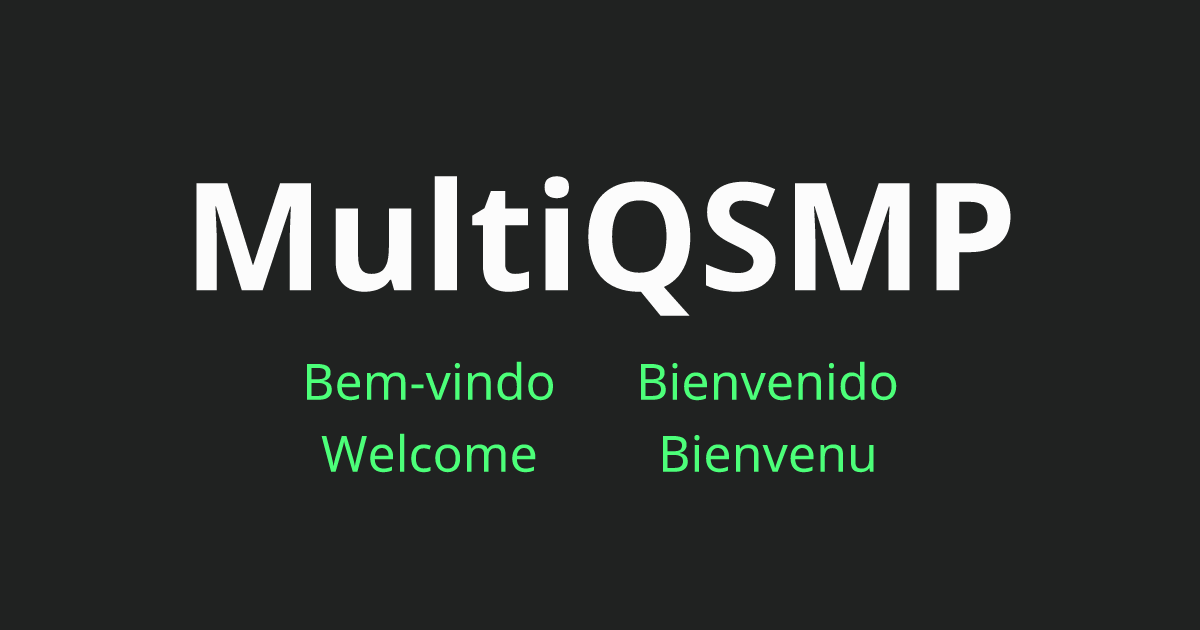
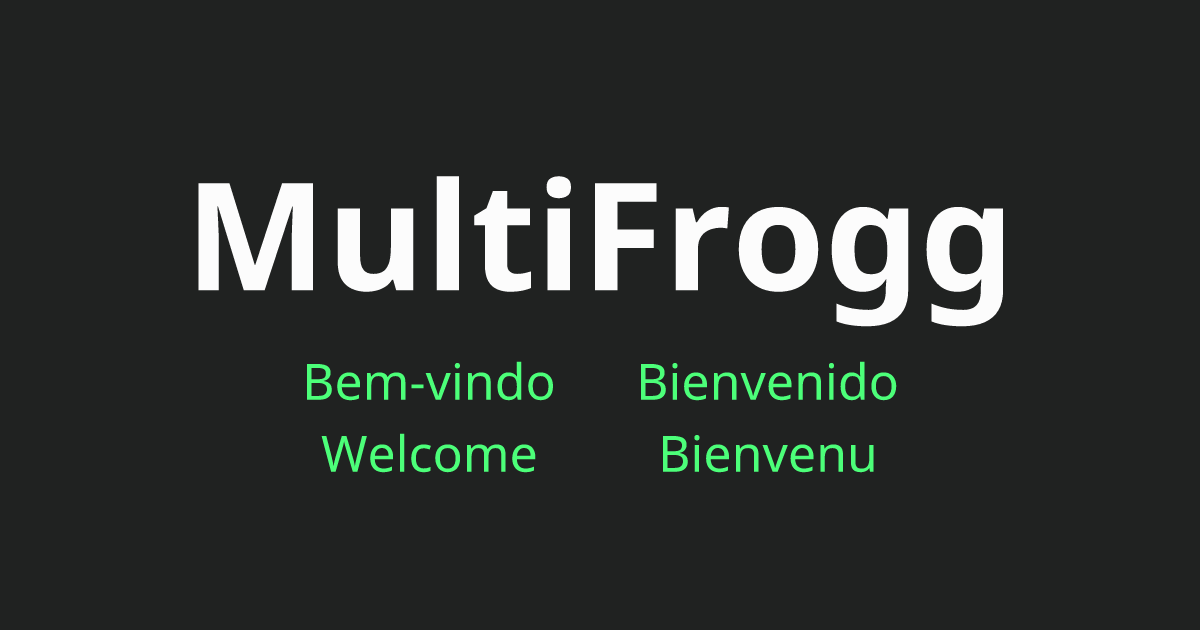
.

diff --git a/src/data/streamers/frogg.ts b/src/data/streamers/frogg.ts
@@ -56,7 +56,8 @@ export const FROGG_STREAMERS: StreamerSchema[] = [
     twitch_name: "ameliebluie",
     default_streamer: true,
     no_data: true,
-    avatar_url: "https://static-cdn.jtvnw.net/jtv_user_pictures/c6b18c74-54c8-42bc-85e0-ca199397acaf-profile_image-300x300.png",
+    avatar_url:
+      "https://static-cdn.jtvnw.net/jtv_user_pictures/c6b18c74-54c8-42bc-85e0-ca199397acaf-profile_image-300x300.png",
   },
   {
     display_name: "Bastet",
@@ -111,7 +112,8 @@ export const FROGG_STREAMERS: StreamerSchema[] = [
     twitch_name: "guaxinim",
     default_streamer: true,
     no_data: true,
-    avatar_url: "https://static-cdn.jtvnw.net/jtv_user_pictures/3a88fb53-3d0b-45f5-8658-6bb6b49575d4-profile_image-300x300.png",
+    avatar_url:
+      "https://static-cdn.jtvnw.net/jtv_user_pictures/3a88fb53-3d0b-45f5-8658-6bb6b49575d4-profile_image-300x300.png",
   },
   {
     display_name: "Jinki",
@@ -146,6 +148,15 @@ export const FROGG_STREAMERS: StreamerSchema[] = [
       "https://static-cdn.jtvnw.net/jtv_user_pictures/5d465f44-69bf-4b06-b49f-b20944fe0bcf-profile_image-300x300.png",
   },
   {
+    display_name: "Mii Reis",
+    twitch_name: "mii_reis",
+    default_streamer: true,
+    no_data: true,
+    youtube_stream: true,
+    avatar_url:
+      "https://yt3.googleusercontent.com/GQxO4T8NxrFomToU_u-zy3VSdAi7MueSWWyi9N_lakRVCQVyJloAAZrr4oec9Fr2I7XH5q02=s176-c-k-c0x00ffffff-no-rj",
+  },
+  {
     display_name: "Myn",
     twitch_name: "mynluvsx",
     default_streamer: true,
@@ -166,7 +177,8 @@ export const FROGG_STREAMERS: StreamerSchema[] = [
     twitch_name: "yuiboboca",
     default_streamer: true,
     no_data: true,
-    avatar_url: "https://static-cdn.jtvnw.net/jtv_user_pictures/dd054b79-a741-484f-be2c-5ad2f0247c66-profile_image-300x300.png",
+    avatar_url:
+      "https://static-cdn.jtvnw.net/jtv_user_pictures/dd054b79-a741-484f-be2c-5ad2f0247c66-profile_image-300x300.png",
   },
   {
     display_name: "Yumi",

diff --git a/src/hooks/selector-dialog/use-static-streamers.ts b/src/hooks/selector-dialog/use-static-streamers.ts
@@ -1,3 +1,4 @@
+import { SPECIAL_STREAMERS } from "@/data/special-streamers";
 import { STREAMERS } from "@/data/streamers";
 import { useCustomDataStore } from "@/stores/custom-data-store";
 import { useStreamersSearchStore } from "@/stores/streamers-search-store";
@@ -46,7 +47,7 @@ export function useStaticStreamers(): {
         return [];
 
       const query = NoDataStreamers.filter(
-        (str) => !["jdm2088", "vkzm14"].includes(str.twitch_name)
+        (str) => !Object.keys(SPECIAL_STREAMERS).includes(str.twitch_name)
       )
         .map((streamer) => streamer.twitch_name)
         .join("/")
@@ -57,11 +58,17 @@ export function useStaticStreamers(): {
           query,
         },
       });
-      return data.concat(
-        NoDataStreamers.filter((str) =>
-          ["jdm2088", "vkzm14"].includes(str.twitch_name)
+      return data
+        .concat(
+          NoDataStreamers.filter((str) =>
+            Object.keys(SPECIAL_STREAMERS).includes(str.twitch_name)
+          )
         )
-      );
+        .sort(
+          (a, b) =>
+            NoDataStreamers.map((s) => s.twitch_name).indexOf(a.twitch_name) -
+            NoDataStreamers.map((s) => s.twitch_name).indexOf(b.twitch_name)
+        );
     },
   });
 

diff --git a/src/components/dialogs/selector/tabs/streamers/streamer.tsx b/src/components/dialogs/selector/tabs/streamers/streamer.tsx
@@ -205,3 +205,34 @@ export function StreamerPlayingBadge() {
     </Badge>
   );
 }
+
+export function YoutubeStreamerBadge() {
+  // const t = useTranslations("selector-dialog.tabs.streamers-tab");
+  // const streamer = useContext(StreamerContext);
+
+  // if (!streamer.no_data || streamer.no_data && !streamer.youtube_stream) return null;
+
+  return (
+    <Badge
+      variant="playing"
+      className="px-1.5 py-1.5 absolute top-1 right-1 cursor-help z-10 bg-red-500 hover:bg-red-500/80"
+      // title={t("not-playing")}
+    >
+      <svg
+        xmlns="http://www.w3.org/2000/svg"
+        width="1rem"
+        height="1rem"
+        viewBox="0 0 24 24"
+        fill="none"
+        stroke="currentColor"
+        strokeWidth="2"
+        strokeLinecap="round"
+        strokeLinejoin="round"
+        className="lucide lucide-youtube"
+      >
+        <path d="M2.5 17a24.12 24.12 0 0 1 0-10 2 2 0 0 1 1.4-1.4 49.56 49.56 0 0 1 16.2 0A2 2 0 0 1 21.5 7a24.12 24.12 0 0 1 0 10 2 2 0 0 1-1.4 1.4 49.55 49.55 0 0 1-16.2 0A2 2 0 0 1 2.5 17" />
+        <path d="m10 15 5-3-5-3z" />
+      </svg>
+    </Badge>
+  );
+}

diff --git a/src/app/og/route.tsx b/src/app/og/route.tsx
@@ -19,13 +19,13 @@ export const size = {
 export const contentType = "image/png";
 
 // Image generation
-export default async function Image() {
+export async function GET() {
   // Font
   const notoSansRegular = fetch(
-    new URL("../assets/NotoSans-Regular.ttf", import.meta.url)
+    new URL("../../assets/NotoSans-Regular.ttf", import.meta.url)
   ).then((res) => res.arrayBuffer());
   const notoSansBold = fetch(
-    new URL("../assets/NotoSans-Bold.ttf", import.meta.url)
+    new URL("../../assets/NotoSans-Bold.ttf", import.meta.url)
   ).then((res) => res.arrayBuffer());
 
   const themes = {
@@ -77,7 +77,7 @@ export default async function Image() {
                 color: themes[env.APP_VARIANT].foreground,
               }}
             >
-              MultiQSMP
+              MultiFrogg
             </h1>
             <div tw="flex">
               <div tw="flex flex-col items-center mr-[80px]">

diff --git a/src/components/streams/stream/stream.tsx b/src/components/streams/stream/stream.tsx
@@ -4,23 +4,6 @@ import { Layout } from "react-grid-layout";
 import { StreamHeader } from "./stream-header";
 import { StreamPlayer } from "./stream-player";
 
-export const specialStreamers = {
-  jdm2088: {
-    stream_url: "https://play.afreecatv.com/jdm1197/embed",
-    hided_header_items: ["sound", "chat"],
-  },
-  vkzm14: {
-    stream_url: "https://play.afreecatv.com/vkzm14/embed",
-    hided_header_items: ["sound", "chat"],
-  },
-};
-
-export function getSpecialStreamer(twitch_name: string) {
-  if (specialStreamers[twitch_name as keyof typeof specialStreamers]) {
-    return specialStreamers[twitch_name as keyof typeof specialStreamers];
-  }
-}
-
 type StreamContextSchema = {
   sound: boolean;
   fullScreen: boolean;

diff --git a/src/hooks/selector-dialog/use-render-groups.ts b/src/hooks/selector-dialog/use-render-groups.ts
@@ -69,12 +69,26 @@ export function useRenderGroups(): (
 
     return [
       { name: "favorite", groups: favoriteGroups[0] },
-      { name: "default", groups: defaultGroups },
+      defaultGroups.length > 0
+        ? { name: "default", groups: defaultGroups }
+        : undefined,
       {
         name: "non-default",
         groups: nonDefaultGroups,
       },
-    ];
+    ].filter(Boolean) as {
+      name: string;
+      groups: {
+        display_name: string;
+        simple_name: string;
+        members: {
+          display_name: string;
+          twitch_name: string;
+          avatar_url: string | null;
+        }[];
+        default_group: boolean;
+      }[];
+    }[];
   }
 
   return render;

diff --git a/src/components/streams/stream/stream-player.tsx b/src/components/streams/stream/stream-player.tsx
@@ -1,7 +1,8 @@
+import { getSpecialStreamer } from "@/data/special-streamers";
 import { useTheme } from "next-themes";
 import ReactPlayer from "react-player";
 import { TwitchChat } from "react-twitch-embed";
-import { getSpecialStreamer, useStream } from "./stream";
+import { useStream } from "./stream";
 
 export function StreamPlayer() {
   const { stream, sound, refreshKey } = useStream();
@@ -40,6 +41,11 @@ export function StreamPlayer() {
         twitch: {
           options: {
             theme: actualTheme,
+          },
+        },
+        youtube: {
+          playerVars: {
+            autoplay: true,
           },
         },
       }}

diff --git a/src/components/dialogs/selector/tabs/streamers/streamers-list.tsx b/src/components/dialogs/selector/tabs/streamers/streamers-list.tsx
@@ -17,6 +17,7 @@ import {
   StreamerFavoriteButton,
   StreamerPinnedButton,
   StreamerPlayingBadge,
+  YoutubeStreamerBadge,
 } from "./streamer";
 
 type StreamersListProps = {
@@ -134,6 +135,9 @@ export function StreamersList({
                       env.APP_VARIANT !== "twitch" && <StreamerPlayingBadge />}
                     {!streamer.no_data && !streamer.default_streamer && (
                       <StreamerPinnedButton />
+                    )}
+                    {streamer.no_data && streamer.youtube_stream && (
+                      <YoutubeStreamerBadge />
                     )}
                   </Streamer>
                 ));

diff --git a/src/app/layout.tsx b/src/app/layout.tsx
@@ -11,12 +11,6 @@ const fontSans = FontSans({
   variable: "--font-sans",
 });
 
-const fontKoreanSans = Noto_Sans_KR({
-  subsets: ["latin"],
-  weight: ["400", "600", "700"],
-  variable: "--font-korean-sans",
-});
-
 export async function generateMetadata(): Promise<Metadata> {
   const t = {
     twitch: {
@@ -88,7 +82,6 @@ export default function RootLayout({
         className={cn(
           "min-h-screen bg-background font-light font-sans antialiased",
           fontSans.variable,
-          fontKoreanSans.variable,
           env.APP_VARIANT
         )}
       >

diff --git a/src/data/skin-heads/frogg.ts b/src/data/skin-heads/frogg.ts
@@ -41,7 +41,8 @@ export const FROGG_SKIN_HEADS: { [skin: string]: string } = {
     "https://crafatar.com/avatars/8d04f1c4-08f1-4d88-bc86-8ac55b55c314?overlay",
   guaxinim:
     "https://crafatar.com/avatars/95ec17d2-9793-46d1-91f3-9a948cf049ff?overlay",
-  // Mii_Reis: "https://crafatar.com/avatars/bad7660b-4506-4f58-9392-d46582c194c4?overlay",
+  mii_reis:
+    "https://crafatar.com/avatars/bad7660b-4506-4f58-9392-d46582c194c4?overlay",
   ameliebluie:
     "https://crafatar.com/avatars/28f2c431-9218-4420-a6f2-3ee5668009af?overlay",
   yuiboboca:

diff --git a/src/app/api/streamers/route.ts b/src/app/api/streamers/route.ts
@@ -80,7 +80,9 @@ async function getStreamers(query: string) {
     const is_default = includes(STREAMERS, "twitch_name", streamer.login);
 
     const offline: StreamerSchema = {
-      display_name: streamer.display_name,
+      display_name:
+        STREAMERS.find((s) => s.twitch_name === streamer.login)?.display_name ??
+        streamer.display_name,
       twitch_name: streamer.login,
       avatar_url: streamer.profile_image_url,
       is_live: false,

diff --git a/src/components/streams/stream/stream-header.tsx b/src/components/streams/stream/stream-header.tsx
@@ -1,7 +1,8 @@
+import { getSpecialStreamer } from "@/data/special-streamers";
 import { useSettings } from "@/hooks/use-settings";
 import { Root as ToolbarRoot } from "@radix-ui/react-toolbar";
 import { useTranslations } from "next-intl";
-import { getSpecialStreamer, useStream } from "./stream";
+import { useStream } from "./stream";
 import { headerItemsComponents } from "./stream-header-items";
 
 export function StreamHeader() {
